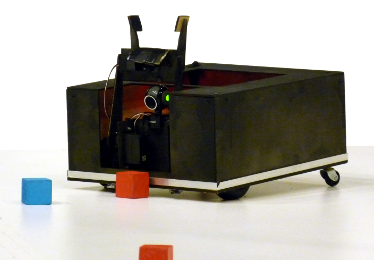
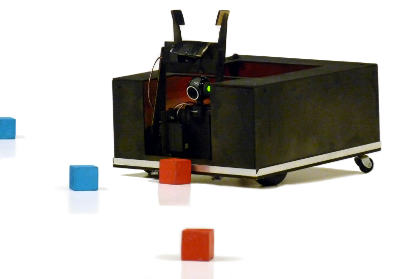
Change homepage robot image to something better and position it better

diff --git a/css/home.css b/css/home.css
@@ -10,18 +10,14 @@ div.content p {
 
 div.content div#topBanner {
 	background:url('../images/template/banner_bg.png') no-repeat;
-	background-position:0px -10px;
-	height:200px;
+	height:236px;
 }
 
 div.content div#topBanner img {
-	width:374px;
-	height:260px;
 	overflow:visible;
 	float:left;
 	position:relative;
 	top:-60px;
-	left:30px;
 }
 
 div.content div#topBanner h1 {
